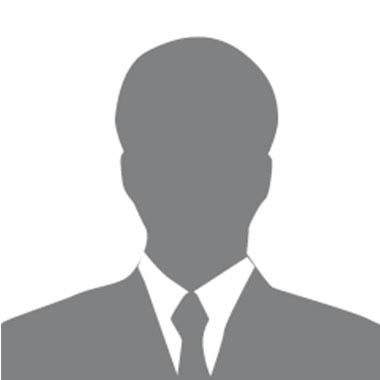
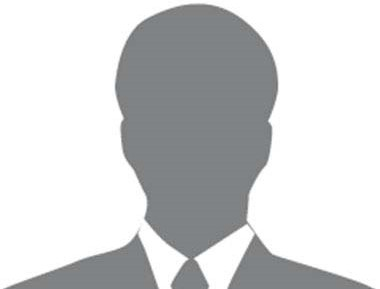
a

diff --git a/public/css/style.css b/public/css/style.css
@@ -1867,11 +1867,13 @@ ul.keyMetrics {
 }
 .SlideImg{
     background: #ffd701;
+
 }
 .SlideImg img{
     width: 100%;
-    /* height: auto; */
-    height: 80%;
+    height: auto;
+    /* height: 80%; */
+    object-fit: cover;
 }
  .searchSlider .slide .slideCont .slideText{
     
